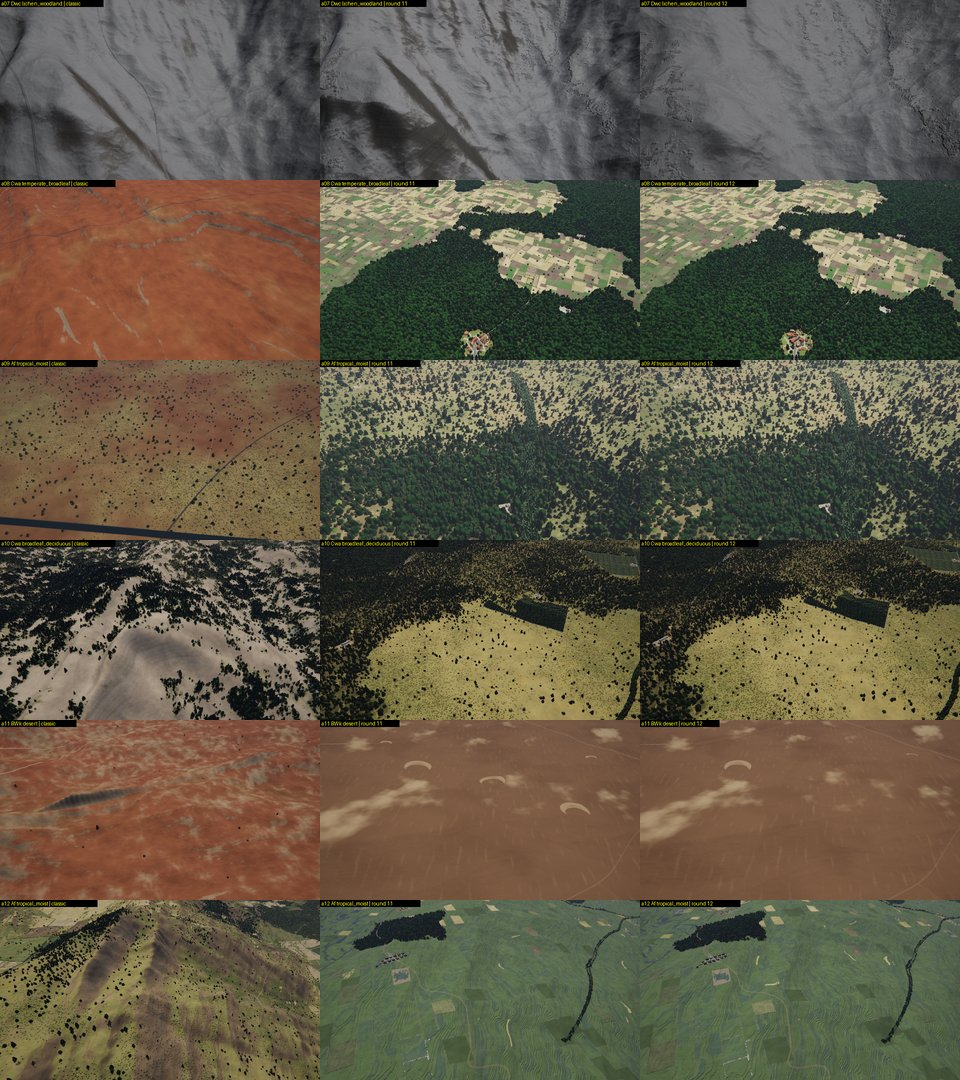
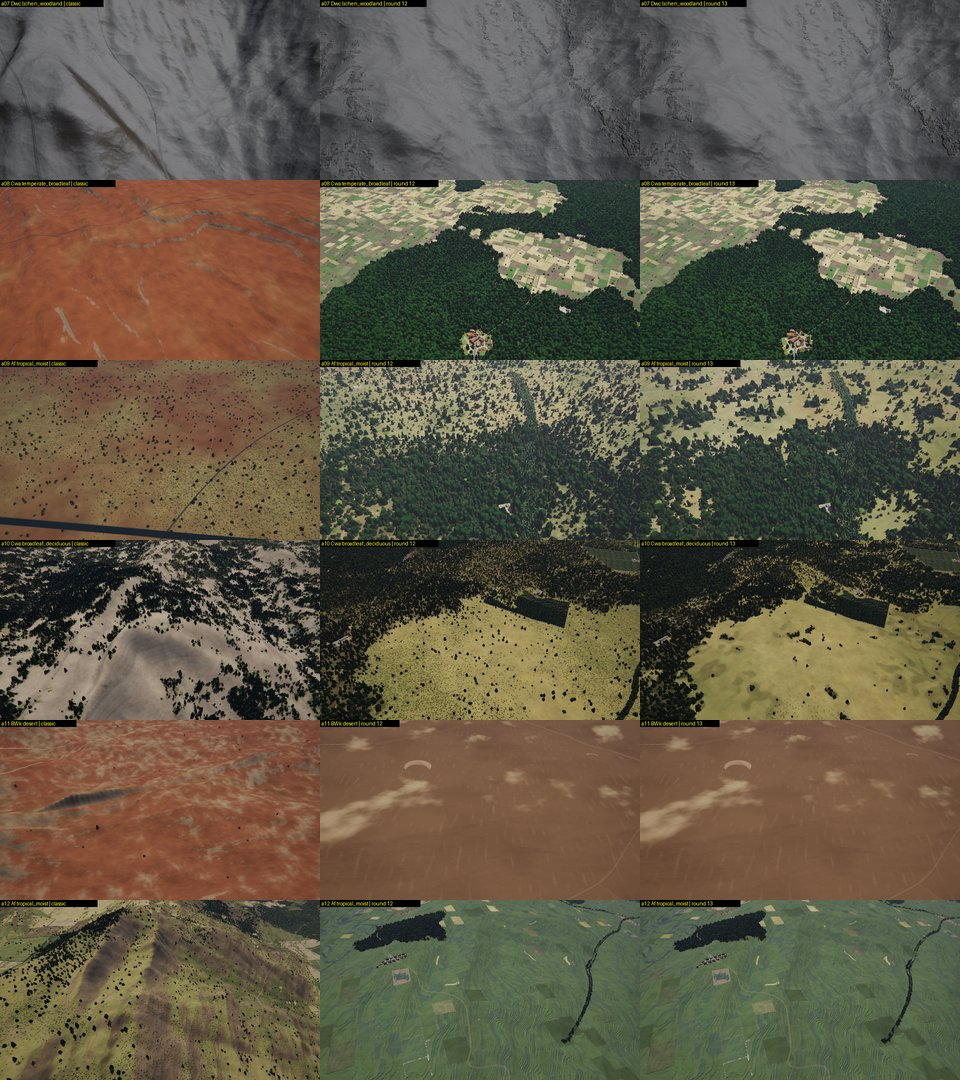
docs/next: round-13 sheets (v0.2.0 | round 12 | round 13) and audit sheets (classic | round 12 | round 13), stats

diff --git a/docs/next/ab/next_quality/stats.md b/docs/next/ab/next_quality/stats.md
@@ -1,126 +1,126 @@
 | scene | run | saturation | hf energy | flat blocks | edge contrast |
 |---|---|---|---|---|---|
 | alpine_south | v0.2.0 | 0.195 | 6.80 | 0.530 | 36.1 |
-| alpine_south | round 11 | 0.206 | 19.30 | 0.001 | 12.5 |
 | alpine_south | round 12 | 0.206 | 19.37 | 0.002 | 12.5 |
+| alpine_south | round 13 | 0.208 | 17.38 | 0.002 | 12.6 |
 | alpine_south@type | v0.2.0 | 0.195 | 6.80 | 0.530 | 36.1 |
-| alpine_south@type | round 11 | 0.130 | 11.30 | 0.178 | 15.5 |
 | alpine_south@type | round 12 | 0.110 | 11.62 | 0.095 | 9.2 |
+| alpine_south@type | round 13 | 0.110 | 11.60 | 0.095 | 9.3 |
 | alpine_valley | v0.2.0 | 0.020 | 3.23 | 0.175 | 7.9 |
-| alpine_valley | round 11 | 0.288 | 13.01 | 0.006 | 18.7 |
 | alpine_valley | round 12 | 0.288 | 13.45 | 0.006 | 18.4 |
+| alpine_valley | round 13 | 0.291 | 11.55 | 0.006 | 17.0 |
 | alpine_valley@type | v0.2.0 | 0.020 | 3.23 | 0.175 | 7.9 |
-| alpine_valley@type | round 11 | 0.031 | 5.21 | 0.011 | 4.5 |
 | alpine_valley@type | round 12 | 0.027 | 4.56 | 0.049 | 4.2 |
+| alpine_valley@type | round 13 | 0.027 | 4.53 | 0.050 | 4.2 |
 | bank | v0.2.0 | 0.244 | 9.45 | 0.337 | 25.9 |
-| bank | round 11 | 0.328 | 2.81 | 0.830 | 2.9 |
 | bank | round 12 | 0.328 | 2.81 | 0.830 | 2.9 |
+| bank | round 13 | 0.328 | 2.81 | 0.830 | 2.9 |
 | bank@type | v0.2.0 | 0.244 | 9.45 | 0.337 | 25.9 |
-| bank@type | round 11 | 0.298 | 6.22 | 0.572 | 19.5 |
 | bank@type | round 12 | 0.298 | 6.22 | 0.572 | 19.5 |
+| bank@type | round 13 | 0.299 | 5.90 | 0.570 | 18.5 |
 | boreal | v0.2.0 | 0.129 | 17.89 | 0.000 | 5.0 |
-| boreal | round 11 | 0.202 | 31.47 | 0.002 | 6.7 |
 | boreal | round 12 | 0.202 | 31.46 | 0.002 | 6.7 |
+| boreal | round 13 | 0.223 | 21.09 | 0.006 | 8.0 |
 | boreal@type | v0.2.0 | 0.129 | 17.89 | 0.000 | 5.0 |
-| boreal@type | round 11 | 0.202 | 37.69 | 0.004 | 5.8 |
 | boreal@type | round 12 | 0.202 | 37.69 | 0.004 | 5.8 |
+| boreal@type | round 13 | 0.224 | 32.27 | 0.004 | 6.9 |
 | braided | v0.2.0 | 0.212 | 32.29 | 0.122 | 6.7 |
-| braided | round 11 | 0.126 | 9.76 | 0.055 | 6.2 |
 | braided | round 12 | 0.127 | 9.91 | 0.042 | 6.0 |
+| braided | round 13 | 0.128 | 8.30 | 0.045 | 5.7 |
 | canyon | v0.2.0 | 0.479 | 6.53 | 0.001 | 4.4 |
-| canyon | round 11 | 0.285 | 55.47 | 0.000 | 4.3 |
 | canyon | round 12 | 0.285 | 55.40 | 0.000 | 4.3 |
+| canyon | round 13 | 0.276 | 50.43 | 0.001 | 5.0 |
 | canyon@type | v0.2.0 | 0.479 | 6.53 | 0.001 | 4.4 |
-| canyon@type | round 11 | 0.300 | 20.70 | 0.056 | 10.7 |
 | canyon@type | round 12 | 0.500 | 14.09 | 0.000 | 5.0 |
+| canyon@type | round 13 | 0.499 | 14.10 | 0.000 | 5.0 |
 | coast | v0.2.0 | 0.298 | 8.90 | 0.270 | 24.5 |
-| coast | round 11 | 0.433 | 2.88 | 0.932 | 2.8 |
 | coast | round 12 | 0.433 | 2.88 | 0.932 | 2.8 |
+| coast | round 13 | 0.433 | 2.88 | 0.932 | 2.8 |
 | coast@type | v0.2.0 | 0.298 | 8.90 | 0.270 | 24.5 |
-| coast@type | round 11 | 0.310 | 10.78 | 0.470 | 38.5 |
 | coast@type | round 12 | 0.310 | 10.78 | 0.469 | 38.5 |
+| coast@type | round 13 | 0.309 | 7.87 | 0.474 | 30.7 |
 | desert_coast | v0.2.0 | 0.404 | 3.10 | 0.370 | 16.3 |
-| desert_coast | round 11 | 0.284 | 4.10 | 0.489 | 7.2 |
 | desert_coast | round 12 | 0.284 | 4.10 | 0.489 | 7.2 |
+| desert_coast | round 13 | 0.284 | 4.10 | 0.489 | 7.2 |
 | desert_coast@type | v0.2.0 | 0.404 | 3.10 | 0.370 | 16.3 |
-| desert_coast@type | round 11 | 0.332 | 8.47 | 0.018 | 12.7 |
 | desert_coast@type | round 12 | 0.332 | 8.47 | 0.018 | 12.7 |
+| desert_coast@type | round 13 | 0.325 | 8.12 | 0.024 | 14.3 |
 | dunes | v0.2.0 | 0.340 | 8.41 | 0.039 | 6.5 |
-| dunes | round 11 | 0.174 | 35.77 | 0.002 | 4.6 |
 | dunes | round 12 | 0.174 | 35.79 | 0.002 | 4.6 |
+| dunes | round 13 | 0.173 | 34.12 | 0.003 | 4.7 |
 | dunes@type | v0.2.0 | 0.340 | 8.41 | 0.039 | 6.5 |
-| dunes@type | round 11 | 0.389 | 7.16 | 0.000 | 3.9 |
 | dunes@type | round 12 | 0.389 | 7.15 | 0.000 | 3.9 |
+| dunes@type | round 13 | 0.389 | 7.15 | 0.000 | 3.9 |
 | dusk | v0.2.0 | 0.169 | 5.19 | 0.044 | 5.1 |
-| dusk | round 11 | 0.132 | 4.09 | 0.402 | 7.9 |
 | dusk | round 12 | 0.132 | 4.07 | 0.404 | 7.8 |
+| dusk | round 13 | 0.134 | 4.00 | 0.395 | 8.1 |
 | dusk@type | v0.2.0 | 0.169 | 5.19 | 0.044 | 5.1 |
-| dusk@type | round 11 | 0.184 | 5.50 | 0.101 | 7.5 |
 | dusk@type | round 12 | 0.185 | 5.49 | 0.114 | 7.6 |
+| dusk@type | round 13 | 0.184 | 5.58 | 0.108 | 7.9 |
 | farmland | v0.2.0 | 0.340 | 10.42 | 0.030 | 20.8 |
-| farmland | round 11 | 0.303 | 9.12 | 0.030 | 21.2 |
 | farmland | round 12 | 0.302 | 8.92 | 0.034 | 21.4 |
+| farmland | round 13 | 0.302 | 8.84 | 0.034 | 21.2 |
 | farmland@type | v0.2.0 | 0.340 | 10.42 | 0.030 | 20.8 |
-| farmland@type | round 11 | 0.285 | 8.95 | 0.037 | 21.7 |
 | farmland@type | round 12 | 0.285 | 8.95 | 0.036 | 21.8 |
+| farmland@type | round 13 | 0.286 | 8.93 | 0.037 | 22.0 |
 | forest | v0.2.0 | 0.202 | 17.92 | 0.002 | 4.2 |
-| forest | round 11 | 0.278 | 15.23 | 0.006 | 19.9 |
 | forest | round 12 | 0.276 | 15.10 | 0.005 | 19.8 |
+| forest | round 13 | 0.283 | 13.29 | 0.005 | 20.7 |
 | forest@type | v0.2.0 | 0.202 | 17.92 | 0.002 | 4.2 |
-| forest@type | round 11 | 0.202 | 20.52 | 0.010 | 10.2 |
 | forest@type | round 12 | 0.202 | 20.45 | 0.010 | 10.2 |
-| fp_forest | round 11 | 0.167 | 28.69 | 0.059 | 6.6 |
+| forest@type | round 13 | 0.213 | 18.99 | 0.010 | 11.1 |
 | fp_forest | round 12 | 0.167 | 28.69 | 0.059 | 6.6 |
-| fp_town | round 11 | 0.281 | 17.18 | 0.007 | 12.1 |
+| fp_forest | round 13 | 0.197 | 12.34 | 0.058 | 10.6 |
 | fp_town | round 12 | 0.280 | 17.43 | 0.004 | 11.9 |
+| fp_town | round 13 | 0.280 | 17.42 | 0.004 | 11.9 |
 | golden | v0.2.0 | 0.166 | 11.29 | 0.112 | 12.4 |
-| golden | round 11 | 0.156 | 13.94 | 0.015 | 8.9 |
 | golden | round 12 | 0.155 | 14.02 | 0.014 | 8.8 |
+| golden | round 13 | 0.157 | 13.50 | 0.017 | 8.6 |
 | golden@type | v0.2.0 | 0.166 | 11.29 | 0.112 | 12.4 |
-| golden@type | round 11 | 0.112 | 9.34 | 0.203 | 20.2 |
 | golden@type | round 12 | 0.104 | 8.47 | 0.274 | 19.6 |
+| golden@type | round 13 | 0.104 | 8.43 | 0.274 | 19.6 |
 | low | v0.2.0 | 0.414 | 5.37 | 0.111 | 3.9 |
-| low | round 11 | 0.359 | 4.66 | 0.007 | 8.2 |
 | low | round 12 | 0.359 | 4.66 | 0.007 | 8.2 |
+| low | round 13 | 0.359 | 4.66 | 0.007 | 8.2 |
 | mountains | v0.2.0 | 0.098 | 14.87 | 0.035 | 4.7 |
-| mountains | round 11 | 0.246 | 20.19 | 0.000 | 13.9 |
 | mountains | round 12 | 0.246 | 20.32 | 0.000 | 13.8 |
+| mountains | round 13 | 0.258 | 18.64 | 0.005 | 15.3 |
 | mountains@type | v0.2.0 | 0.098 | 14.87 | 0.035 | 4.7 |
-| mountains@type | round 11 | 0.160 | 17.14 | 0.094 | 22.9 |
 | mountains@type | round 12 | 0.126 | 20.09 | 0.126 | 14.3 |
+| mountains@type | round 13 | 0.125 | 18.23 | 0.155 | 13.7 |
 | night | v0.2.0 | 0.450 | 27.41 | 0.013 | 7.0 |
-| night | round 11 | 0.802 | 22.28 | 0.000 | 2.9 |
 | night | round 12 | 0.802 | 22.28 | 0.000 | 2.9 |
+| night | round 13 | 0.802 | 22.31 | 0.000 | 2.9 |
 | night@type | v0.2.0 | 0.450 | 27.41 | 0.013 | 7.0 |
-| night@type | round 11 | 0.517 | 22.97 | 0.000 | 6.8 |
 | night@type | round 12 | 0.506 | 23.38 | 0.000 | 6.6 |
+| night@type | round 13 | 0.358 | 22.68 | 0.000 | 6.9 |
 | river | v0.2.0 | 0.279 | 18.77 | 0.088 | 11.9 |
-| river | round 11 | 0.273 | 13.67 | 0.109 | 18.3 |
 | river | round 12 | 0.273 | 13.66 | 0.108 | 18.3 |
+| river | round 13 | 0.276 | 13.34 | 0.108 | 18.8 |
 | taiga_river | v0.2.0 | 0.165 | 21.84 | 0.041 | 5.1 |
-| taiga_river | round 11 | 0.163 | 31.68 | 0.033 | 6.2 |
 | taiga_river | round 12 | 0.163 | 31.67 | 0.033 | 6.2 |
+| taiga_river | round 13 | 0.179 | 27.60 | 0.034 | 7.6 |
 | taiga_river@type | v0.2.0 | 0.165 | 21.84 | 0.041 | 5.1 |
-| taiga_river@type | round 11 | 0.175 | 29.00 | 0.000 | 5.7 |
 | taiga_river@type | round 12 | 0.175 | 28.97 | 0.000 | 5.6 |
+| taiga_river@type | round 13 | 0.197 | 23.10 | 0.000 | 6.4 |
 | terminal_lake | v0.2.0 | 0.287 | 4.57 | 0.498 | 37.8 |
-| terminal_lake | round 11 | 0.254 | 6.03 | 0.481 | 23.2 |
 | terminal_lake | round 12 | 0.254 | 6.03 | 0.481 | 23.2 |
+| terminal_lake | round 13 | 0.254 | 6.00 | 0.482 | 23.1 |
 | town | v0.2.0 | 0.193 | 22.91 | 0.038 | 8.7 |
-| town | round 11 | 0.309 | 9.94 | 0.005 | 20.6 |
 | town | round 12 | 0.309 | 9.94 | 0.004 | 20.6 |
+| town | round 13 | 0.309 | 9.44 | 0.003 | 17.6 |
 | town@type | v0.2.0 | 0.193 | 22.91 | 0.038 | 8.7 |
-| town@type | round 11 | 0.208 | 33.10 | 0.038 | 23.0 |
 | town@type | round 12 | 0.207 | 33.28 | 0.033 | 19.9 |
+| town@type | round 13 | 0.207 | 33.36 | 0.033 | 19.9 |
 | tropics | v0.2.0 | 0.253 | 22.99 | 0.190 | 10.2 |
-| tropics | round 11 | 0.226 | 27.14 | 0.011 | 8.0 |
 | tropics | round 12 | 0.226 | 27.15 | 0.011 | 8.0 |
+| tropics | round 13 | 0.229 | 25.58 | 0.011 | 8.4 |
 | tropics@type | v0.2.0 | 0.253 | 22.99 | 0.190 | 10.2 |
-| tropics@type | round 11 | 0.265 | 21.09 | 0.237 | 24.1 |
 | tropics@type | round 12 | 0.265 | 21.11 | 0.237 | 25.0 |
+| tropics@type | round 13 | 0.266 | 20.94 | 0.237 | 25.0 |
 | volcano | v0.2.0 | 0.205 | 23.29 | 0.002 | 5.9 |
-| volcano | round 11 | 0.161 | 25.58 | 0.002 | 5.7 |
 | volcano | round 12 | 0.161 | 25.62 | 0.002 | 5.7 |
+| volcano | round 13 | 0.172 | 24.43 | 0.003 | 6.1 |
 | volcano@type | v0.2.0 | 0.205 | 23.29 | 0.002 | 5.9 |
-| volcano@type | round 11 | 0.255 | 27.15 | 0.000 | 5.2 |
 | volcano@type | round 12 | 0.255 | 26.93 | 0.000 | 5.2 |
+| volcano@type | round 13 | 0.259 | 26.87 | 0.000 | 5.2 |

diff --git a/docs/next/ab/next_quality/audit_stats.md b/docs/next/ab/next_quality/audit_stats.md
@@ -1,92 +1,92 @@
 | scene | run | saturation | hf energy | flat blocks | edge contrast |
 |---|---|---|---|---|---|
 | a01 | classic | 0.369 | 12.16 | 0.014 | 20.3 |
-| a01 | round 11 | 0.323 | 40.73 | 0.005 | 8.8 |
 | a01 | round 12 | 0.323 | 40.69 | 0.004 | 8.8 |
+| a01 | round 13 | 0.329 | 32.70 | 0.022 | 12.4 |
 | a02 | classic | 0.033 | 5.24 | 0.070 | 4.1 |
-| a02 | round 11 | 0.289 | 14.02 | 0.001 | 17.0 |
 | a02 | round 12 | 0.288 | 15.16 | 0.000 | 15.8 |
+| a02 | round 13 | 0.292 | 8.75 | 0.001 | 9.1 |
 | a03 | classic | 0.432 | 18.30 | 0.040 | 23.5 |
-| a03 | round 11 | 0.308 | 9.40 | 0.124 | 26.8 |
 | a03 | round 12 | 0.308 | 9.40 | 0.125 | 26.7 |
+| a03 | round 13 | 0.304 | 7.69 | 0.122 | 20.0 |
 | a04 | classic | 0.418 | 13.70 | 0.212 | 38.2 |
-| a04 | round 11 | 0.245 | 23.75 | 0.172 | 9.0 |
 | a04 | round 12 | 0.245 | 23.78 | 0.172 | 9.0 |
+| a04 | round 13 | 0.245 | 23.02 | 0.172 | 9.3 |
 | a05 | classic | 0.326 | 11.52 | 0.015 | 17.5 |
-| a05 | round 11 | 0.280 | 13.76 | 0.006 | 17.8 |
 | a05 | round 12 | 0.280 | 13.87 | 0.007 | 17.7 |
+| a05 | round 13 | 0.280 | 13.89 | 0.007 | 17.8 |
 | a06 | classic | 0.419 | 24.48 | 0.008 | 15.8 |
-| a06 | round 11 | 0.342 | 15.14 | 0.007 | 19.8 |
 | a06 | round 12 | 0.342 | 15.16 | 0.007 | 19.7 |
+| a06 | round 13 | 0.326 | 11.44 | 0.003 | 17.4 |
 | a07 | classic | 0.040 | 5.77 | 0.024 | 4.8 |
-| a07 | round 11 | 0.045 | 9.49 | 0.008 | 8.5 |
 | a07 | round 12 | 0.040 | 9.47 | 0.018 | 9.9 |
+| a07 | round 13 | 0.040 | 8.53 | 0.028 | 9.7 |
 | a08 | classic | 0.605 | 3.88 | 0.117 | 5.2 |
-| a08 | round 11 | 0.315 | 23.79 | 0.000 | 8.5 |
 | a08 | round 12 | 0.315 | 23.73 | 0.000 | 8.5 |
+| a08 | round 13 | 0.321 | 23.07 | 0.000 | 8.7 |
 | a09 | classic | 0.424 | 17.74 | 0.058 | 21.0 |
-| a09 | round 11 | 0.226 | 30.39 | 0.003 | 11.9 |
 | a09 | round 12 | 0.226 | 30.39 | 0.002 | 11.8 |
+| a09 | round 13 | 0.240 | 23.21 | 0.008 | 17.1 |
 | a10 | classic | 0.254 | 29.33 | 0.002 | 24.5 |
-| a10 | round 11 | 0.398 | 34.04 | 0.001 | 11.9 |
 | a10 | round 12 | 0.406 | 32.63 | 0.002 | 12.6 |
+| a10 | round 13 | 0.399 | 15.00 | 0.018 | 31.3 |
 | a11 | classic | 0.539 | 4.79 | 0.032 | 5.4 |
-| a11 | round 11 | 0.458 | 3.20 | 0.608 | 4.8 |
 | a11 | round 12 | 0.458 | 3.14 | 0.589 | 4.4 |
+| a11 | round 13 | 0.458 | 3.14 | 0.589 | 4.4 |
 | a12 | classic | 0.384 | 20.77 | 0.000 | 17.7 |
-| a12 | round 11 | 0.276 | 15.09 | 0.015 | 7.1 |
 | a12 | round 12 | 0.277 | 14.75 | 0.013 | 6.9 |
+| a12 | round 13 | 0.277 | 14.73 | 0.014 | 6.9 |
 | a13 | classic | 0.304 | 9.74 | 0.027 | 15.3 |
-| a13 | round 11 | 0.347 | 16.70 | 0.003 | 11.4 |
 | a13 | round 12 | 0.348 | 16.28 | 0.006 | 12.3 |
+| a13 | round 13 | 0.346 | 7.25 | 0.087 | 12.1 |
 | a14 | classic | 0.472 | 3.56 | 0.378 | 10.8 |
-| a14 | round 11 | 0.412 | 15.52 | 0.006 | 9.1 |
 | a14 | round 12 | 0.445 | 15.64 | 0.004 | 9.4 |
+| a14 | round 13 | 0.455 | 4.80 | 0.321 | 15.6 |
 | a15 | classic | 0.190 | 20.39 | 0.000 | 4.6 |
-| a15 | round 11 | 0.176 | 26.84 | 0.000 | 5.9 |
 | a15 | round 12 | 0.176 | 26.84 | 0.000 | 5.9 |
+| a15 | round 13 | 0.193 | 23.37 | 0.000 | 6.6 |
 | a16 | classic | 0.388 | 27.67 | 0.012 | 16.9 |
-| a16 | round 11 | 0.353 | 28.36 | 0.000 | 3.3 |
 | a16 | round 12 | 0.355 | 26.84 | 0.000 | 3.5 |
+| a16 | round 13 | 0.340 | 15.58 | 0.000 | 4.2 |
 | a17 | classic | 0.051 | 9.04 | 0.002 | 4.7 |
-| a17 | round 11 | 0.287 | 32.20 | 0.011 | 27.9 |
 | a17 | round 12 | 0.287 | 32.16 | 0.011 | 28.0 |
+| a17 | round 13 | 0.301 | 4.12 | 0.252 | 6.0 |
 | a18 | classic | 0.283 | 3.73 | 0.038 | 3.1 |
-| a18 | round 11 | 0.375 | 9.29 | 0.012 | 21.5 |
 | a18 | round 12 | 0.375 | 9.24 | 0.011 | 21.5 |
+| a18 | round 13 | 0.380 | 5.42 | 0.021 | 10.4 |
 | a19 | classic | 0.291 | 20.84 | 0.005 | 17.5 |
-| a19 | round 11 | 0.330 | 17.59 | 0.002 | 19.0 |
 | a19 | round 12 | 0.332 | 18.72 | 0.002 | 18.2 |
+| a19 | round 13 | 0.320 | 16.86 | 0.003 | 18.9 |
 | a20 | classic | 0.345 | 5.46 | 0.040 | 9.6 |
-| a20 | round 11 | 0.312 | 36.19 | 0.000 | 12.7 |
 | a20 | round 12 | 0.313 | 36.24 | 0.000 | 12.8 |
+| a20 | round 13 | 0.316 | 21.70 | 0.001 | 19.2 |
 | a21 | classic | 0.318 | 4.71 | 0.006 | 3.9 |
-| a21 | round 11 | 0.374 | 24.92 | 0.000 | 9.7 |
 | a21 | round 12 | 0.374 | 25.26 | 0.000 | 9.4 |
+| a21 | round 13 | 0.384 | 6.34 | 0.044 | 16.0 |
 | a22 | classic | 0.319 | 32.76 | 0.003 | 18.5 |
-| a22 | round 11 | 0.308 | 29.88 | 0.014 | 4.2 |
 | a22 | round 12 | 0.309 | 29.36 | 0.012 | 4.3 |
+| a22 | round 13 | 0.320 | 27.27 | 0.012 | 4.3 |
 | a23 | classic | 0.380 | 13.38 | 0.035 | 24.5 |
-| a23 | round 11 | 0.396 | 9.14 | 0.020 | 20.3 |
 | a23 | round 12 | 0.398 | 9.13 | 0.017 | 19.8 |
+| a23 | round 13 | 0.398 | 7.34 | 0.020 | 15.4 |
 | a24 | classic | 0.279 | 11.34 | 0.005 | 13.8 |
-| a24 | round 11 | 0.363 | 21.36 | 0.000 | 10.6 |
 | a24 | round 12 | 0.363 | 20.95 | 0.000 | 11.4 |
+| a24 | round 13 | 0.373 | 8.55 | 0.015 | 7.5 |
 | a25 | classic | 0.225 | 6.78 | 0.019 | 12.5 |
-| a25 | round 11 | 0.268 | 34.73 | 0.000 | 5.0 |
 | a25 | round 12 | 0.269 | 34.81 | 0.000 | 5.0 |
+| a25 | round 13 | 0.289 | 29.92 | 0.000 | 5.2 |
 | a26 | classic | 0.310 | 7.06 | 0.016 | 8.9 |
-| a26 | round 11 | 0.144 | 45.88 | 0.000 | 4.4 |
 | a26 | round 12 | 0.144 | 45.88 | 0.000 | 4.4 |
+| a26 | round 13 | 0.178 | 17.07 | 0.000 | 7.7 |
 | a27 | classic | 0.357 | 3.36 | 0.222 | 3.1 |
-| a27 | round 11 | 0.285 | 9.31 | 0.042 | 19.6 |
 | a27 | round 12 | 0.285 | 9.31 | 0.042 | 19.6 |
+| a27 | round 13 | 0.285 | 9.21 | 0.042 | 19.2 |
 | a28 | classic | 0.033 | 4.69 | 0.005 | 3.1 |
-| a28 | round 11 | 0.301 | 18.29 | 0.000 | 4.6 |
 | a28 | round 12 | 0.293 | 19.85 | 0.000 | 4.6 |
+| a28 | round 13 | 0.305 | 12.53 | 0.000 | 6.8 |
 | a29 | classic | 0.028 | 4.82 | 0.186 | 4.4 |
-| a29 | round 11 | 0.024 | 5.04 | 0.629 | 11.8 |
 | a29 | round 12 | 0.024 | 5.03 | 0.632 | 11.8 |
+| a29 | round 13 | 0.024 | 5.02 | 0.633 | 11.8 |
 | a30 | classic | 0.029 | 4.76 | 0.248 | 3.6 |
-| a30 | round 11 | 0.238 | 3.97 | 0.116 | 3.6 |
 | a30 | round 12 | 0.188 | 9.80 | 0.002 | 4.5 |
+| a30 | round 13 | 0.191 | 7.80 | 0.002 | 3.8 |
